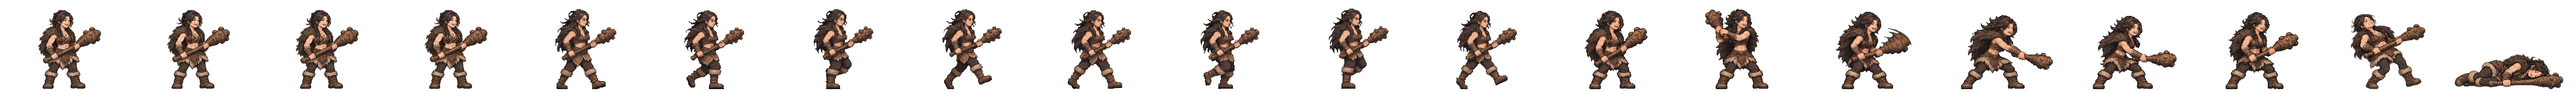
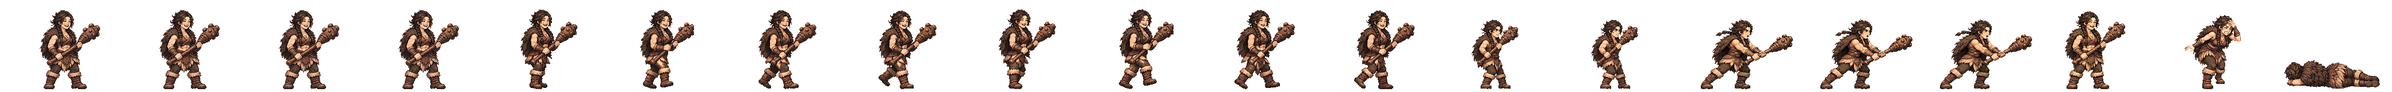
웅천 곰 전투 띠를 새 방식으로: 서기·걷기·가시 몽둥이 내려찍기 여덟 칸·쓰러짐·맞음 (Codex 그림 · 입 벌린 칸 얼굴 부분 편집 한 번) · 인수인계에 도끼 묶음(밤) 절
Claude-Session: https://claude.ai/code/session_01TRiuN7s6aDfSnaHxrkctmU

Changed region(s): [[0.0, 0.0938, 1.0, 0.9688]]

diff --git a/src/realm/data/spritePx.ts b/src/realm/data/spritePx.ts
@@ -1,3 +1,3 @@
 /** public/realm/anim-px/manifest.json 의 사본 — tools/sprite-normalize.mjs 가 만든다 (손으로 고치지 말 것). 칸 [가로, 세로] · feet = 발 줄(칸 위에서 y) · bodyPx = 서 있는 몸 키 */
 import { expandManifest } from './sprite-manifest.ts'
-export const SPRITE_PX: Readonly<Record<string, { readonly cell: readonly [number, number]; readonly feet: number; readonly bodyPx: number; readonly kind: 'general' | 'soldier' | 'folk' | 'crowd'; readonly cells: number }>> = expandManifest<{ readonly cell: readonly [number, number]; readonly feet: number; readonly bodyPx: number; readonly kind: 'general' | 'soldier' | 'folk' | 'crowd'; readonly cells: number }>([{"cell":[166,128],"feet":126,"bodyPx":124,"kind":"soldier","cells":20},{"cell":[116,128],"feet":126,"bodyPx":117,"kind":"soldier","cells":20},{"cell":[127,128],"feet":126,"bodyPx":116,"kind":"soldier","cells":20},{"cell":[269,128],"feet":126,"bodyPx":126,"kind":"soldier","cells":20},{"cell":[503,128],"feet":126,"bodyPx":127,"kind":"soldier","cells":20},{"cell":[614,128],"feet":126,"bodyPx":126,"kind":"soldier","cells":20},{"cell":[200,160],"feet":156,"bodyPx":138,"kind":"general","cells":20},{"cell":[208,160],"feet":155,"bodyPx":138,"kind":"general","cells":20},{"cell":[208,160],"feet":154,"bodyPx":138,"kind":"general","cells":20},{"cell":[304,160],"feet":155,"bodyPx":135,"kind":"general","cells":20},{"cell":[184,160],"feet":156,"bodyPx":138,"kind":"general","cells":20},{"cell":[208,160],"feet":154,"bodyPx":136,"kind":"general","cells":20},{"cell":[232,160],"feet":156,"bodyPx":138,"kind":"general","cells":20},{"cell":[208,160],"feet":156,"bodyPx":138,"kind":"general","cells":20},{"cell":[168,160],"feet":156,"bodyPx":124,"kind":"general","cells":20},{"cell":[216,160],"feet":156,"bodyPx":130,"kind":"general","cells":20},{"cell":[200,160],"feet":156,"bodyPx":116,"kind":"general","cells":20},{"cell":[192,160],"feet":156,"bodyPx":138,"kind":"general","cells":20},{"cell":[208,160],"feet":154,"bodyPx":135,"kind":"general","cells":20},{"cell":[280,160],"feet":156,"bodyPx":138,"kind":"general","cells":20},{"cell":[232,160],"feet":156,"bodyPx":134,"kind":"general","cells":20},{"cell":[144,160],"feet":156,"bodyPx":70,"kind":"general","cells":20},{"cell":[208,160],"feet":156,"bodyPx":70,"kind":"general","cells":20},{"cell":[192,160],"feet":156,"bodyPx":70,"kind":"general","cells":20},{"cell":[240,160],"feet":155,"bodyPx":138,"kind":"general","cells":20},{"cell":[192,160],"feet":156,"bodyPx":128,"kind":"general","cells":20},{"cell":[224,160],"feet":155,"bodyPx":138,"kind":"general","cells":20},{"cell":[208,160],"feet":154,"bodyPx":137,"kind":"general","cells":20},{"cell":[216,160],"feet":156,"bodyPx":138,"kind":"general","cells":20},{"cell":[208,160],"feet":156,"bodyPx":134,"kind":"general","cells":20},{"cell":[208,160],"feet":154,"bodyPx":130,"kind":"general","cells":20},{"cell":[248,160],"feet":156,"bodyPx":138,"kind":"general","cells":20},{"cell":[248,160],"feet":155,"bodyPx":138,"kind":"general","cells":20},{"cell":[192,160],"feet":155,"bodyPx":138,"kind":"general","cells":20},{"cell":[192,160],"feet":156,"bodyPx":124,"kind":"general","cells":20},{"cell":[208,160],"feet":154,"bodyPx":131,"kind":"general","cells":20},{"cell":[256,160],"feet":156,"bodyPx":138,"kind":"general","cells":20},{"cell":[240,160],"feet":156,"bodyPx":138,"kind":"general","cells":20},{"cell":[232,160],"feet":156,"bodyPx":73,"kind":"general","cells":20},{"cell":[224,160],"feet":156,"bodyPx":138,"kind":"general","cells":20},{"cell":[224,160],"feet":156,"bodyPx":128,"kind":"general","cells":20},{"cell":[176,160],"feet":156,"bodyPx":129,"kind":"general","cells":20},{"cell":[208,160],"feet":154,"bodyPx":139,"kind":"general","cells":20},{"cell":[232,160],"feet":155,"bodyPx":138,"kind":"general","cells":20},{"cell":[208,160],"feet":156,"bodyPx":132,"kind":"general","cells":20},{"cell":[184,160],"feet":156,"bodyPx":122,"kind":"general","cells":20},{"cell":[280,160],"feet":155,"bodyPx":133,"kind":"general","cells":20},{"cell":[176,160],"feet":156,"bodyPx":70,"kind":"general","cells":20},{"cell":[186,128],"feet":126,"bodyPx":127,"kind":"soldier","cells":20},{"cell":[298,128],"feet":126,"bodyPx":126,"kind":"soldier","cells":20},{"cell":[82,128],"feet":126,"bodyPx":114,"kind":"folk","cells":8},{"cell":[134,128],"feet":126,"bodyPx":119,"kind":"soldier","cells":20},{"cell":[380,128],"feet":126,"bodyPx":124,"kind":"soldier","cells":20},{"cell":[114,128],"feet":126,"bodyPx":115,"kind":"soldier","cells":20},{"cell":[122,128],"feet":126,"bodyPx":114,"kind":"soldier","cells":20},{"cell":[254,128],"feet":126,"bodyPx":128,"kind":"soldier","cells":20},{"cell":[438,128],"feet":126,"bodyPx":126,"kind":"soldier","cells":20},{"cell":[88,128],"feet":126,"bodyPx":113,"kind":"folk","cells":8},{"cell":[100,128],"feet":126,"bodyPx":115,"kind":"folk","cells":8},{"cell":[108,128],"feet":126,"bodyPx":115,"kind":"folk","cells":8},{"cell":[63,128],"feet":126,"bodyPx":113,"kind":"folk","cells":8},{"cell":[69,96],"feet":96,"bodyPx":96,"kind":"crowd","cells":1},{"cell":[54,96],"feet":96,"bodyPx":96,"kind":"crowd","cells":1},{"cell":[47,96],"feet":96,"bodyPx":96,"kind":"crowd","cells":1},{"cell":[49,96],"feet":96,"bodyPx":96,"kind":"crowd","cells":1},{"cell":[57,96],"feet":96,"bodyPx":96,"kind":"crowd","cells":1},{"cell":[55,96],"feet":96,"bodyPx":96,"kind":"crowd","cells":1},{"cell":[45,96],"feet":96,"bodyPx":96,"kind":"crowd","cells":1},{"cell":[53,96],"feet":96,"bodyPx":96,"kind":"crowd","cells":1},{"cell":[64,96],"feet":96,"bodyPx":96,"kind":"crowd","cells":1},{"cell":[264,160],"feet":156,"bodyPx":138,"kind":"general","cells":20},{"cell":[184,160],"feet":156,"bodyPx":124,"kind":"general","cells":20},{"cell":[208,160],"feet":154,"bodyPx":134,"kind":"general","cells":20},{"cell":[224,160],"feet":156,"bodyPx":133,"kind":"general","cells":20},{"cell":[184,160],"feet":156,"bodyPx":137,"kind":"general","cells":20},{"cell":[176,160],"feet":156,"bodyPx":130,"kind":"general","cells":20},{"cell":[216,160],"feet":156,"bodyPx":134,"kind":"general","cells":20},{"cell":[216,160],"feet":156,"bodyPx":132,"kind":"general","cells":20},{"cell":[288,160],"feet":156,"bodyPx":138,"kind":"general","cells":20},{"cell":[192,160],"feet":156,"bodyPx":118,"kind":"general","cells":20},{"cell":[208,160],"feet":154,"bodyPx":132,"kind":"general","cells":20},{"cell":[208,160],"feet":154,"bodyPx":128,"kind":"general","cells":20},{"cell":[240,160],"feet":156,"bodyPx":128,"kind":"general","cells":20},{"cell":[184,160],"feet":156,"bodyPx":132,"kind":"general","cells":20},{"cell":[208,160],"feet":156,"bodyPx":123,"kind":"general","cells":20},{"cell":[192,160],"feet":156,"bodyPx":135,"kind":"general","cells":20},{"cell":[176,160],"feet":156,"bodyPx":116,"kind":"general","cells":20},{"cell":[272,160],"feet":156,"bodyPx":138,"kind":"general","cells":20},{"cell":[176,160],"feet":156,"bodyPx":138,"kind":"general","cells":20},{"cell":[176,160],"feet":156,"bodyPx":122,"kind":"general","cells":20},{"cell":[232,160],"feet":156,"bodyPx":127,"kind":"general","cells":20},{"cell":[184,160],"feet":156,"bodyPx":134,"kind":"general","cells":20},{"cell":[168,160],"feet":156,"bodyPx":138,"kind":"general","cells":20},{"cell":[176,160],"feet":156,"bodyPx":137,"kind":"general","cells":20},{"cell":[184,160],"feet":156,"bodyPx":133,"kind":"general","cells":20}],[["axe",0],["bandit-chief",1],["bandit-club",2],["boat",3],["bow",4],["crossbow",5],["gen-adogan",6],["gen-alpyeong",7],["gen-ara",8],["gen-areum",8],["gen-aryeong",9],["gen-bakdal",8],["gen-baram",8],["gen-bdanbi",10],["gen-beom",11],["gen-beombal",8],["gen-beomi",8],["gen-bira",12],["gen-biryu",13],["gen-budeul",8],["gen-byeol",8],["gen-daemusin",14],["gen-daeso",15],["gen-dallae2",10],["gen-dalli",8],["gen-damul",16],["gen-danbi",8],["gen-dangung",17],["gen-darae",18],["gen-dokmudeom",8],["gen-duman",19],["gen-eomni",8],["gen-eureum",20],["gen-g-bow",21],["gen-g-spear",22],["gen-g-sword",23],["gen-gaennae",8],["gen-gamsil",24],["gen-gaon",18],["gen-geota",13],["gen-geumbawi",10],["gen-geumha",25],["gen-goeun",8],["gen-gom",26],["gen-gomok",13],["gen-gureum",8],["gen-guryema",17],["gen-gwaeyu",12],["gen-haebi",8],["gen-haedal",6],["gen-haesol",8],["gen-halla",27],["gen-heo",8],["gen-hneoul",10],["gen-hogong",28],["gen-hojin",13],["gen-horselord",29],["gen-hwalmi",30],["gen-hyeokgeose",17],["gen-hyeopbo",6],["gen-irang",8],["gen-jibaekho",31],["gen-jinha",32],["gen-jita",33],["gen-jumong",34],["gen-keundol",7],["gen-maehwa",35],["gen-maenun",17],["gen-malgalgi",36],["gen-mari",37],["gen-maro",31],["gen-maryeo",13],["gen-mdallae",8],["gen-mir",6],["gen-mount",38],["gen-mulbeom",27],["gen-mulsae",27],["gen-musoe",28],["gen-noeul",8],["gen-nuri",8],["gen-ocheongan",39],["gen-odi",8],["gen-odogan",6],["gen-ogan",17],["gen-oi",40],["gen-olddaeso",20],["gen-onjo",41],["gen-pidogan",13],["gen-sagong",42],["gen-sdallae",6],["gen-sincheongan",8],["gen-singwigan",28],["gen-sinneoul",8],["gen-sobeol",43],["gen-soebi",8],["gen-soebo",44],["gen-soenun",42],["gen-sogeumbi",27],["gen-songbi",39],["gen-songyang",45],["gen-sori",8],["gen-soseono",46],["gen-suro",17],["gen-tahae",6],["gen-tneoul",8],["gen-w-bow",21],["gen-w-spear",47],["gen-waechief",13],["gen-wan",28],["gen-yeodogan",13],["gen-yucheongan",8],["gen-yusugan",31],["horse",48],["marine",49],["migrant",50],["militia",51],["pike",52],["pirate-captain",53],["pirate-sword",54],["shield",55],["spear",56],["villager-builder",57],["villager-farmer",58],["villager-porter",59],["villager-woman",60],["crowd-b1",61],["crowd-b2",62],["crowd-b3",63],["crowd-b4",64],["crowd-b5",65],["crowd-b6",66],["crowd-f1",61],["crowd-f2",66],["crowd-f3",67],["crowd-f4",68],["crowd-f5",61],["crowd-f6",69],["gen-dalbit",13],["gen-base-g-07-drunk-warrior",17],["gen-base-g-40-anya-adan",13],["gen-base-w-13-young-archer",8],["gen-base-g-03-sea-trader",37],["gen-base-w-10-pirate-captain",42],["gen-base-w-64-miri-dallae",42],["gen-base-g-41-goja-bau",37],["gen-base-g-42-dokro-garam",70],["gen-base-g-09-farmer-conscript",28],["gen-base-w-02-goguryeo-lady",8],["gen-base-w-17-mahan-pearl-diver",8],["gen-base-g-17-saro-isageum",44],["gen-base-g-18-daegaya-king",71],["gen-base-g-35-dabeol-dalgu",13],["gen-base-g-19-sabeol-veteran",28],["gen-base-w-23-usisan-whale-queen",8],["gen-base-g-36-gammun-gamdol",39],["gen-base-g-20-samul-sea-lord",36],["gen-base-g-37-eumjeup-jeup",10],["gen-base-g-38-chopal-palmae",17],["gen-base-w-75-daegaya-soemoe",8],["gen-base-g-45-dabeol-deulgae",10],["gen-base-g-04-jinhan-giant",13],["gen-base-g-08-veteran",13],["gen-base-w-18-jinhan-salt-widow",8],["gen-base-w-12-court-dancer",72],["gen-base-w-83-gyeonji-beodeul",73],["gen-base-w-05-baekje-queen",18],["gen-base-w-21-baekje-court-dancer",10],["gen-base-g-01-master-smith",74],["gen-base-g-93-jomun-solgae",75],["gen-base-g-57-bihwa-neup",37],["gen-base-w-72-eumjeup-beol",8],["gen-base-w-102-garak-dana",42],["gen-base-g-68-baekje-onnuri",13],["gen-base-w-27-mokji-jinha",6],["gen-base-g-22-ungcheon-gomnae",6],["gen-base-g-23-sangdang-soedal",13],["gen-base-g-24-wansan-onsan",6],["gen-base-g-25-balla-keunmoe",28],["gen-base-g-61-heomcheuk-bawi",28],["gen-base-g-88-wander-soeul",39],["gen-base-w-14-feast-spy",8],["gen-base-g-12-silla-youth",76],["gen-base-w-08-mahan-warrior",8],["gen-base-g-62-beonye-hanul",37],["gen-base-g-63-heomcheuk-beogeum",13],["gen-base-g-84-wander-seoneul",13],["gen-base-w-50-siljik-mulga",28],["gen-base-g-46-uga-nureongso",28],["gen-base-w-80-usan-gangchi",42],["gen-base-g-47-guga-sanyanggae",28],["gen-base-w-76-gampyeong-baetsagong",8],["gen-base-g-05-mahan-chieftain",77],["gen-base-g-58-usan-uhae",13],["gen-base-g-27-maek-maekdol",13],["gen-base-w-53-hwanna-gabi",42],["gen-base-w-29-golpo-janmul",31],["gen-base-g-53-baekje-haeru",6],["gen-base-w-71-yeonna-neoul",8],["gen-base-w-79-yangmaek-solmae",8],["gen-base-w-34-chopal-deulme",8],["gen-base-g-44-maga-malgup",78],["gen-base-w-31-dabeol-dalbit",42],["gen-base-g-51-biryuna-mulgyeol",39],["gen-base-g-48-gwanna-musoe",13],["gen-base-g-32-uga-sodu",12],["gen-base-g-49-goguryeo-sona",79],["gen-base-g-30-gwanna-soemoe",39],["gen-base-g-52-tamna-oreum",10],["gen-base-g-29-yeonna-myeongsol",34],["gen-base-w-56-dongokjeo-sogeum",72],["gen-base-g-54-mokji-mahan",12],["gen-base-g-33-jeoga-metdol",17],["gen-base-w-36-baekje-maena",8],["gen-base-w-38-sangdang-bulmae",42],["gen-base-w-39-gosaburi-galmae",8],["gen-base-w-40-mujin-munui",80],["gen-base-w-41-hwanna-beodeul",81],["gen-base-w-43-uga-nuri",36],["gen-base-w-45-tamna-oreumbi",10],["gen-base-g-60-golbeol-golgae",10],["gen-base-g-61-apdok-ap",28],["gen-base-g-62-gammun-gamnamu",6],["gen-base-g-63-chopal-yeoul",31],["gen-base-g-64-michuhol-sogeumkkun",37],["gen-base-g-65-sangdang-soemangchi",39],["gen-base-g-66-geonma-malbalgup",82],["gen-base-g-67-gosaburi-buri",83],["gen-base-g-68-mujin-bitgoeul",10],["gen-base-g-69-goryong-yong",39],["gen-base-g-70-siljik-pado",37],["gen-base-w-81-byeokjin-byeolbit",8],["gen-base-w-46-geonma-maru",8],["gen-base-w-48-mujin-mudeung",8],["gen-base-g-26-gampyeong-gaetbeol",12],["gen-base-g-60-eupcha-hangyeol",84],["gen-base-g-15-shaman-man",28],["gen-base-g-85-wander-ure",31],["gen-base-g-43-hwanna-amnok",13],["gen-base-g-50-bullae-gwaha",85],["gen-base-g-55-saro-bakdal",13],["gen-base-g-56-haseulla-gwahama",6],["gen-base-w-06-buyeo-huntress",27],["gen-base-w-22-dongye-tiger-huntress",8],["gen-base-w-25-bihwa-priestess",8],["gen-base-w-24-apdok-queen",8],["gen-base-w-61-iseo-sinae",8],["gen-base-w-26-iseo-tomboy-general",8],["gen-base-g-59-yangmaek-maekson",86],["gen-aw1-haebi",39],["gen-aw1-soseono",87],["gen-aw1-gamsil",10],["gen-aw1-mir",88],["gen-aw1-dangung",6],["gen-aw1-ara",39],["gen-aw1-jumong",89],["gen-aw1-onjo",90],["gen-aw1-base-w-83-gyeonji-beodeul",17],["gen-aw1-heo",70],["gen-aw1-base-g-38-chopal-palmae",6],["gen-aw1-base-w-25-bihwa-priestess",91],["gen-aw1-sori",92],["gen-aw1-gomok",6],["gen-aw1-irang",17],["gen-aw1-budeul",92],["gen-aw1-gom",37],["gen-aw1-sdallae",6],["gen-aw1-base-w-13-young-archer",6],["gen-aw1-base-w-36-baekje-maena",93],["gen-aw1-base-g-09-farmer-conscript",70],["gen-aw1-base-w-02-goguryeo-lady",94],["gen-aw1-haedal",10],["gen-aw1-hogong",6],["gen-aw1-maehwa",88],["gen-aw1-base-w-06-buyeo-huntress",12],["gen-aw1-base-w-08-mahan-warrior",39],["gen-aw1-base-w-29-golpo-janmul",39],["gen-aw1-base-w-31-dabeol-dalbit",17],["gen-aw1-base-w-38-sangdang-bulmae",92],["gen-aw1-bira",28],["gen-aw1-base-w-53-hwanna-gabi",92],["gen-aw1-base-w-56-dongokjeo-sogeum",88],["gen-aw1-base-w-72-eumjeup-beol",17],["gen-aw1-bdanbi",92],["gen-aw1-beom",10],["gen-aw1-beombal",10],["gen-aw1-byeol",17],["gen-aw1-dalli",88],["gen-aw1-malgalgi",31],["gen-aw1-sincheongan",28]])
+export const SPRITE_PX: Readonly<Record<string, { readonly cell: readonly [number, number]; readonly feet: number; readonly bodyPx: number; readonly kind: 'general' | 'soldier' | 'folk' | 'crowd'; readonly cells: number }>> = expandManifest<{ readonly cell: readonly [number, number]; readonly feet: number; readonly bodyPx: number; readonly kind: 'general' | 'soldier' | 'folk' | 'crowd'; readonly cells: number }>([{"cell":[166,128],"feet":126,"bodyPx":124,"kind":"soldier","cells":20},{"cell":[116,128],"feet":126,"bodyPx":117,"kind":"soldier","cells":20},{"cell":[127,128],"feet":126,"bodyPx":116,"kind":"soldier","cells":20},{"cell":[269,128],"feet":126,"bodyPx":126,"kind":"soldier","cells":20},{"cell":[503,128],"feet":126,"bodyPx":127,"kind":"soldier","cells":20},{"cell":[614,128],"feet":126,"bodyPx":126,"kind":"soldier","cells":20},{"cell":[200,160],"feet":156,"bodyPx":138,"kind":"general","cells":20},{"cell":[208,160],"feet":155,"bodyPx":138,"kind":"general","cells":20},{"cell":[208,160],"feet":154,"bodyPx":138,"kind":"general","cells":20},{"cell":[304,160],"feet":155,"bodyPx":135,"kind":"general","cells":20},{"cell":[184,160],"feet":156,"bodyPx":138,"kind":"general","cells":20},{"cell":[208,160],"feet":154,"bodyPx":136,"kind":"general","cells":20},{"cell":[232,160],"feet":156,"bodyPx":138,"kind":"general","cells":20},{"cell":[208,160],"feet":156,"bodyPx":138,"kind":"general","cells":20},{"cell":[168,160],"feet":156,"bodyPx":124,"kind":"general","cells":20},{"cell":[216,160],"feet":156,"bodyPx":130,"kind":"general","cells":20},{"cell":[200,160],"feet":156,"bodyPx":116,"kind":"general","cells":20},{"cell":[192,160],"feet":156,"bodyPx":138,"kind":"general","cells":20},{"cell":[208,160],"feet":154,"bodyPx":135,"kind":"general","cells":20},{"cell":[280,160],"feet":156,"bodyPx":138,"kind":"general","cells":20},{"cell":[232,160],"feet":156,"bodyPx":134,"kind":"general","cells":20},{"cell":[144,160],"feet":156,"bodyPx":70,"kind":"general","cells":20},{"cell":[208,160],"feet":156,"bodyPx":70,"kind":"general","cells":20},{"cell":[192,160],"feet":156,"bodyPx":70,"kind":"general","cells":20},{"cell":[240,160],"feet":155,"bodyPx":138,"kind":"general","cells":20},{"cell":[192,160],"feet":156,"bodyPx":128,"kind":"general","cells":20},{"cell":[208,160],"feet":154,"bodyPx":137,"kind":"general","cells":20},{"cell":[216,160],"feet":156,"bodyPx":138,"kind":"general","cells":20},{"cell":[208,160],"feet":156,"bodyPx":134,"kind":"general","cells":20},{"cell":[208,160],"feet":154,"bodyPx":130,"kind":"general","cells":20},{"cell":[248,160],"feet":156,"bodyPx":138,"kind":"general","cells":20},{"cell":[248,160],"feet":155,"bodyPx":138,"kind":"general","cells":20},{"cell":[192,160],"feet":155,"bodyPx":138,"kind":"general","cells":20},{"cell":[192,160],"feet":156,"bodyPx":124,"kind":"general","cells":20},{"cell":[208,160],"feet":154,"bodyPx":131,"kind":"general","cells":20},{"cell":[256,160],"feet":156,"bodyPx":138,"kind":"general","cells":20},{"cell":[240,160],"feet":156,"bodyPx":138,"kind":"general","cells":20},{"cell":[232,160],"feet":156,"bodyPx":73,"kind":"general","cells":20},{"cell":[224,160],"feet":156,"bodyPx":138,"kind":"general","cells":20},{"cell":[224,160],"feet":156,"bodyPx":128,"kind":"general","cells":20},{"cell":[176,160],"feet":156,"bodyPx":129,"kind":"general","cells":20},{"cell":[208,160],"feet":154,"bodyPx":139,"kind":"general","cells":20},{"cell":[232,160],"feet":155,"bodyPx":138,"kind":"general","cells":20},{"cell":[208,160],"feet":156,"bodyPx":132,"kind":"general","cells":20},{"cell":[184,160],"feet":156,"bodyPx":122,"kind":"general","cells":20},{"cell":[280,160],"feet":155,"bodyPx":133,"kind":"general","cells":20},{"cell":[176,160],"feet":156,"bodyPx":70,"kind":"general","cells":20},{"cell":[186,128],"feet":126,"bodyPx":127,"kind":"soldier","cells":20},{"cell":[298,128],"feet":126,"bodyPx":126,"kind":"soldier","cells":20},{"cell":[82,128],"feet":126,"bodyPx":114,"kind":"folk","cells":8},{"cell":[134,128],"feet":126,"bodyPx":119,"kind":"soldier","cells":20},{"cell":[380,128],"feet":126,"bodyPx":124,"kind":"soldier","cells":20},{"cell":[114,128],"feet":126,"bodyPx":115,"kind":"soldier","cells":20},{"cell":[122,128],"feet":126,"bodyPx":114,"kind":"soldier","cells":20},{"cell":[254,128],"feet":126,"bodyPx":128,"kind":"soldier","cells":20},{"cell":[438,128],"feet":126,"bodyPx":126,"kind":"soldier","cells":20},{"cell":[88,128],"feet":126,"bodyPx":113,"kind":"folk","cells":8},{"cell":[100,128],"feet":126,"bodyPx":115,"kind":"folk","cells":8},{"cell":[108,128],"feet":126,"bodyPx":115,"kind":"folk","cells":8},{"cell":[63,128],"feet":126,"bodyPx":113,"kind":"folk","cells":8},{"cell":[69,96],"feet":96,"bodyPx":96,"kind":"crowd","cells":1},{"cell":[54,96],"feet":96,"bodyPx":96,"kind":"crowd","cells":1},{"cell":[47,96],"feet":96,"bodyPx":96,"kind":"crowd","cells":1},{"cell":[49,96],"feet":96,"bodyPx":96,"kind":"crowd","cells":1},{"cell":[57,96],"feet":96,"bodyPx":96,"kind":"crowd","cells":1},{"cell":[55,96],"feet":96,"bodyPx":96,"kind":"crowd","cells":1},{"cell":[45,96],"feet":96,"bodyPx":96,"kind":"crowd","cells":1},{"cell":[53,96],"feet":96,"bodyPx":96,"kind":"crowd","cells":1},{"cell":[64,96],"feet":96,"bodyPx":96,"kind":"crowd","cells":1},{"cell":[264,160],"feet":156,"bodyPx":138,"kind":"general","cells":20},{"cell":[184,160],"feet":156,"bodyPx":124,"kind":"general","cells":20},{"cell":[208,160],"feet":154,"bodyPx":134,"kind":"general","cells":20},{"cell":[224,160],"feet":156,"bodyPx":133,"kind":"general","cells":20},{"cell":[184,160],"feet":156,"bodyPx":137,"kind":"general","cells":20},{"cell":[176,160],"feet":156,"bodyPx":130,"kind":"general","cells":20},{"cell":[216,160],"feet":156,"bodyPx":134,"kind":"general","cells":20},{"cell":[216,160],"feet":156,"bodyPx":132,"kind":"general","cells":20},{"cell":[288,160],"feet":156,"bodyPx":138,"kind":"general","cells":20},{"cell":[192,160],"feet":156,"bodyPx":118,"kind":"general","cells":20},{"cell":[208,160],"feet":154,"bodyPx":132,"kind":"general","cells":20},{"cell":[208,160],"feet":154,"bodyPx":128,"kind":"general","cells":20},{"cell":[240,160],"feet":156,"bodyPx":128,"kind":"general","cells":20},{"cell":[184,160],"feet":156,"bodyPx":132,"kind":"general","cells":20},{"cell":[208,160],"feet":156,"bodyPx":123,"kind":"general","cells":20},{"cell":[192,160],"feet":156,"bodyPx":135,"kind":"general","cells":20},{"cell":[176,160],"feet":156,"bodyPx":116,"kind":"general","cells":20},{"cell":[272,160],"feet":156,"bodyPx":138,"kind":"general","cells":20},{"cell":[176,160],"feet":156,"bodyPx":138,"kind":"general","cells":20},{"cell":[176,160],"feet":156,"bodyPx":122,"kind":"general","cells":20},{"cell":[232,160],"feet":156,"bodyPx":127,"kind":"general","cells":20},{"cell":[184,160],"feet":156,"bodyPx":134,"kind":"general","cells":20},{"cell":[168,160],"feet":156,"bodyPx":138,"kind":"general","cells":20},{"cell":[176,160],"feet":156,"bodyPx":137,"kind":"general","cells":20},{"cell":[184,160],"feet":156,"bodyPx":133,"kind":"general","cells":20}],[["axe",0],["bandit-chief",1],["bandit-club",2],["boat",3],["bow",4],["crossbow",5],["gen-adogan",6],["gen-alpyeong",7],["gen-ara",8],["gen-areum",8],["gen-aryeong",9],["gen-bakdal",8],["gen-baram",8],["gen-bdanbi",10],["gen-beom",11],["gen-beombal",8],["gen-beomi",8],["gen-bira",12],["gen-biryu",13],["gen-budeul",8],["gen-byeol",8],["gen-daemusin",14],["gen-daeso",15],["gen-dallae2",10],["gen-dalli",8],["gen-damul",16],["gen-danbi",8],["gen-dangung",17],["gen-darae",18],["gen-dokmudeom",8],["gen-duman",19],["gen-eomni",8],["gen-eureum",20],["gen-g-bow",21],["gen-g-spear",22],["gen-g-sword",23],["gen-gaennae",8],["gen-gamsil",24],["gen-gaon",18],["gen-geota",13],["gen-geumbawi",10],["gen-geumha",25],["gen-goeun",8],["gen-gom",8],["gen-gomok",13],["gen-gureum",8],["gen-guryema",17],["gen-gwaeyu",12],["gen-haebi",8],["gen-haedal",6],["gen-haesol",8],["gen-halla",26],["gen-heo",8],["gen-hneoul",10],["gen-hogong",27],["gen-hojin",13],["gen-horselord",28],["gen-hwalmi",29],["gen-hyeokgeose",17],["gen-hyeopbo",6],["gen-irang",8],["gen-jibaekho",30],["gen-jinha",31],["gen-jita",32],["gen-jumong",33],["gen-keundol",7],["gen-maehwa",34],["gen-maenun",17],["gen-malgalgi",35],["gen-mari",36],["gen-maro",30],["gen-maryeo",13],["gen-mdallae",8],["gen-mir",6],["gen-mount",37],["gen-mulbeom",26],["gen-mulsae",26],["gen-musoe",27],["gen-noeul",8],["gen-nuri",8],["gen-ocheongan",38],["gen-odi",8],["gen-odogan",6],["gen-ogan",17],["gen-oi",39],["gen-olddaeso",20],["gen-onjo",40],["gen-pidogan",13],["gen-sagong",41],["gen-sdallae",6],["gen-sincheongan",8],["gen-singwigan",27],["gen-sinneoul",8],["gen-sobeol",42],["gen-soebi",8],["gen-soebo",43],["gen-soenun",41],["gen-sogeumbi",26],["gen-songbi",38],["gen-songyang",44],["gen-sori",8],["gen-soseono",45],["gen-suro",17],["gen-tahae",6],["gen-tneoul",8],["gen-w-bow",21],["gen-w-spear",46],["gen-waechief",13],["gen-wan",27],["gen-yeodogan",13],["gen-yucheongan",8],["gen-yusugan",30],["horse",47],["marine",48],["migrant",49],["militia",50],["pike",51],["pirate-captain",52],["pirate-sword",53],["shield",54],["spear",55],["villager-builder",56],["villager-farmer",57],["villager-porter",58],["villager-woman",59],["crowd-b1",60],["crowd-b2",61],["crowd-b3",62],["crowd-b4",63],["crowd-b5",64],["crowd-b6",65],["crowd-f1",60],["crowd-f2",65],["crowd-f3",66],["crowd-f4",67],["crowd-f5",60],["crowd-f6",68],["gen-dalbit",13],["gen-base-g-07-drunk-warrior",17],["gen-base-g-40-anya-adan",13],["gen-base-w-13-young-archer",8],["gen-base-g-03-sea-trader",36],["gen-base-w-10-pirate-captain",41],["gen-base-w-64-miri-dallae",41],["gen-base-g-41-goja-bau",36],["gen-base-g-42-dokro-garam",69],["gen-base-g-09-farmer-conscript",27],["gen-base-w-02-goguryeo-lady",8],["gen-base-w-17-mahan-pearl-diver",8],["gen-base-g-17-saro-isageum",43],["gen-base-g-18-daegaya-king",70],["gen-base-g-35-dabeol-dalgu",13],["gen-base-g-19-sabeol-veteran",27],["gen-base-w-23-usisan-whale-queen",8],["gen-base-g-36-gammun-gamdol",38],["gen-base-g-20-samul-sea-lord",35],["gen-base-g-37-eumjeup-jeup",10],["gen-base-g-38-chopal-palmae",17],["gen-base-w-75-daegaya-soemoe",8],["gen-base-g-45-dabeol-deulgae",10],["gen-base-g-04-jinhan-giant",13],["gen-base-g-08-veteran",13],["gen-base-w-18-jinhan-salt-widow",8],["gen-base-w-12-court-dancer",71],["gen-base-w-83-gyeonji-beodeul",72],["gen-base-w-05-baekje-queen",18],["gen-base-w-21-baekje-court-dancer",10],["gen-base-g-01-master-smith",73],["gen-base-g-93-jomun-solgae",74],["gen-base-g-57-bihwa-neup",36],["gen-base-w-72-eumjeup-beol",8],["gen-base-w-102-garak-dana",41],["gen-base-g-68-baekje-onnuri",13],["gen-base-w-27-mokji-jinha",6],["gen-base-g-22-ungcheon-gomnae",6],["gen-base-g-23-sangdang-soedal",13],["gen-base-g-24-wansan-onsan",6],["gen-base-g-25-balla-keunmoe",27],["gen-base-g-61-heomcheuk-bawi",27],["gen-base-g-88-wander-soeul",38],["gen-base-w-14-feast-spy",8],["gen-base-g-12-silla-youth",75],["gen-base-w-08-mahan-warrior",8],["gen-base-g-62-beonye-hanul",36],["gen-base-g-63-heomcheuk-beogeum",13],["gen-base-g-84-wander-seoneul",13],["gen-base-w-50-siljik-mulga",27],["gen-base-g-46-uga-nureongso",27],["gen-base-w-80-usan-gangchi",41],["gen-base-g-47-guga-sanyanggae",27],["gen-base-w-76-gampyeong-baetsagong",8],["gen-base-g-05-mahan-chieftain",76],["gen-base-g-58-usan-uhae",13],["gen-base-g-27-maek-maekdol",13],["gen-base-w-53-hwanna-gabi",41],["gen-base-w-29-golpo-janmul",30],["gen-base-g-53-baekje-haeru",6],["gen-base-w-71-yeonna-neoul",8],["gen-base-w-79-yangmaek-solmae",8],["gen-base-w-34-chopal-deulme",8],["gen-base-g-44-maga-malgup",77],["gen-base-w-31-dabeol-dalbit",41],["gen-base-g-51-biryuna-mulgyeol",38],["gen-base-g-48-gwanna-musoe",13],["gen-base-g-32-uga-sodu",12],["gen-base-g-49-goguryeo-sona",78],["gen-base-g-30-gwanna-soemoe",38],["gen-base-g-52-tamna-oreum",10],["gen-base-g-29-yeonna-myeongsol",33],["gen-base-w-56-dongokjeo-sogeum",71],["gen-base-g-54-mokji-mahan",12],["gen-base-g-33-jeoga-metdol",17],["gen-base-w-36-baekje-maena",8],["gen-base-w-38-sangdang-bulmae",41],["gen-base-w-39-gosaburi-galmae",8],["gen-base-w-40-mujin-munui",79],["gen-base-w-41-hwanna-beodeul",80],["gen-base-w-43-uga-nuri",35],["gen-base-w-45-tamna-oreumbi",10],["gen-base-g-60-golbeol-golgae",10],["gen-base-g-61-apdok-ap",27],["gen-base-g-62-gammun-gamnamu",6],["gen-base-g-63-chopal-yeoul",30],["gen-base-g-64-michuhol-sogeumkkun",36],["gen-base-g-65-sangdang-soemangchi",38],["gen-base-g-66-geonma-malbalgup",81],["gen-base-g-67-gosaburi-buri",82],["gen-base-g-68-mujin-bitgoeul",10],["gen-base-g-69-goryong-yong",38],["gen-base-g-70-siljik-pado",36],["gen-base-w-81-byeokjin-byeolbit",8],["gen-base-w-46-geonma-maru",8],["gen-base-w-48-mujin-mudeung",8],["gen-base-g-26-gampyeong-gaetbeol",12],["gen-base-g-60-eupcha-hangyeol",83],["gen-base-g-15-shaman-man",27],["gen-base-g-85-wander-ure",30],["gen-base-g-43-hwanna-amnok",13],["gen-base-g-50-bullae-gwaha",84],["gen-base-g-55-saro-bakdal",13],["gen-base-g-56-haseulla-gwahama",6],["gen-base-w-06-buyeo-huntress",26],["gen-base-w-22-dongye-tiger-huntress",8],["gen-base-w-25-bihwa-priestess",8],["gen-base-w-24-apdok-queen",8],["gen-base-w-61-iseo-sinae",8],["gen-base-w-26-iseo-tomboy-general",8],["gen-base-g-59-yangmaek-maekson",85],["gen-aw1-haebi",38],["gen-aw1-soseono",86],["gen-aw1-gamsil",10],["gen-aw1-mir",87],["gen-aw1-dangung",6],["gen-aw1-ara",38],["gen-aw1-jumong",88],["gen-aw1-onjo",89],["gen-aw1-base-w-83-gyeonji-beodeul",17],["gen-aw1-heo",69],["gen-aw1-base-g-38-chopal-palmae",6],["gen-aw1-base-w-25-bihwa-priestess",90],["gen-aw1-sori",91],["gen-aw1-gomok",6],["gen-aw1-irang",17],["gen-aw1-budeul",91],["gen-aw1-gom",36],["gen-aw1-sdallae",6],["gen-aw1-base-w-13-young-archer",6],["gen-aw1-base-w-36-baekje-maena",92],["gen-aw1-base-g-09-farmer-conscript",69],["gen-aw1-base-w-02-goguryeo-lady",93],["gen-aw1-haedal",10],["gen-aw1-hogong",6],["gen-aw1-maehwa",87],["gen-aw1-base-w-06-buyeo-huntress",12],["gen-aw1-base-w-08-mahan-warrior",38],["gen-aw1-base-w-29-golpo-janmul",38],["gen-aw1-base-w-31-dabeol-dalbit",17],["gen-aw1-base-w-38-sangdang-bulmae",91],["gen-aw1-bira",27],["gen-aw1-base-w-53-hwanna-gabi",91],["gen-aw1-base-w-56-dongokjeo-sogeum",87],["gen-aw1-base-w-72-eumjeup-beol",17],["gen-aw1-bdanbi",91],["gen-aw1-beom",10],["gen-aw1-beombal",10],["gen-aw1-byeol",17],["gen-aw1-dalli",87],["gen-aw1-malgalgi",30],["gen-aw1-sincheongan",27]])

diff --git a/src/duel/view.ts b/src/duel/view.ts
@@ -100,7 +100,7 @@ const crowdFront = [1, 2, 3, 4, 5, 6].map((i) => img(`realm/duel/crowd/b${i}.png
 const crowdReady = (set: HTMLImageElement[]): boolean => set.every((im) => im.complete && im.naturalWidth > 0)
 const pxMode = cfg.px !== false && params.get('px') !== '0'
 /** 겨루기 전용 옛 띠(duel/sprites) 대신 열전과 같은 도트 띠(anim-px)를 쓰는 장수 — 두 판에서 같은 모습 · 서기 계획·쓰러지는 칸도 같다 (11-23 범 · 매화 · 달빛 · 11-24 해비 · 아룸) */
-const PX_DUEL: ReadonlySet<string> = new Set(['beom', 'maehwa', 'base-w-31-dabeol-dalbit', 'haebi', 'areum', 'base-w-13-young-archer', 'base-w-10-pirate-captain', 'base-w-17-mahan-pearl-diver', 'base-w-06-buyeo-huntress', 'base-w-64-miri-dallae', 'ara', 'base-w-22-dongye-tiger-huntress', 'noeul', 'sagong', 'sinneoul', 'heo', 'base-w-08-mahan-warrior', 'base-w-23-usisan-whale-queen', 'base-w-26-iseo-tomboy-general', 'base-w-72-eumjeup-beol', 'tneoul', 'odi', 'base-w-76-gampyeong-baetsagong', 'base-w-34-chopal-deulme', 'base-w-102-garak-dana', 'base-w-36-baekje-maena', 'base-w-56-dongokjeo-sogeum', 'budeul', 'base-w-53-hwanna-gabi', 'base-w-18-jinhan-salt-widow', 'beombal', 'irang', 'sogeumbi', 'baram', 'byeol', 'base-w-71-yeonna-neoul', 'base-w-39-gosaburi-galmae', 'base-w-41-hwanna-beodeul', 'base-w-79-yangmaek-solmae', 'base-w-46-geonma-maru', 'base-w-48-mujin-mudeung', 'base-w-80-usan-gangchi', 'base-w-81-byeokjin-byeolbit', 'beomi', 'danbi', 'dalli', 'gureum', 'haesol', 'soenun', 'eomni', 'mulbeom', 'mulsae', 'bakdal', 'darae', 'sori', 'base-w-12-court-dancer', 'hwalmi', 'gaennae', 'dokmudeom', 'base-w-14-feast-spy', 'base-w-25-bihwa-priestess', 'sincheongan', 'base-w-40-mujin-munui', 'halla', 'yucheongan', 'base-w-02-goguryeo-lady', 'gaon', 'base-w-24-apdok-queen', 'base-w-61-iseo-sinae', 'goeun', 'base-w-05-baekje-queen', 'mdallae', 'nuri', 'base-w-75-daegaya-soemoe', 'soebi', 'base-w-38-sangdang-bulmae'])
+const PX_DUEL: ReadonlySet<string> = new Set(['beom', 'maehwa', 'base-w-31-dabeol-dalbit', 'haebi', 'areum', 'base-w-13-young-archer', 'base-w-10-pirate-captain', 'base-w-17-mahan-pearl-diver', 'base-w-06-buyeo-huntress', 'base-w-64-miri-dallae', 'ara', 'base-w-22-dongye-tiger-huntress', 'noeul', 'sagong', 'sinneoul', 'heo', 'base-w-08-mahan-warrior', 'base-w-23-usisan-whale-queen', 'base-w-26-iseo-tomboy-general', 'base-w-72-eumjeup-beol', 'tneoul', 'odi', 'base-w-76-gampyeong-baetsagong', 'base-w-34-chopal-deulme', 'base-w-102-garak-dana', 'base-w-36-baekje-maena', 'base-w-56-dongokjeo-sogeum', 'budeul', 'base-w-53-hwanna-gabi', 'base-w-18-jinhan-salt-widow', 'beombal', 'irang', 'sogeumbi', 'baram', 'byeol', 'base-w-71-yeonna-neoul', 'base-w-39-gosaburi-galmae', 'base-w-41-hwanna-beodeul', 'base-w-79-yangmaek-solmae', 'base-w-46-geonma-maru', 'base-w-48-mujin-mudeung', 'base-w-80-usan-gangchi', 'base-w-81-byeokjin-byeolbit', 'beomi', 'danbi', 'dalli', 'gureum', 'haesol', 'soenun', 'eomni', 'mulbeom', 'mulsae', 'bakdal', 'darae', 'sori', 'base-w-12-court-dancer', 'hwalmi', 'gaennae', 'dokmudeom', 'base-w-14-feast-spy', 'base-w-25-bihwa-priestess', 'sincheongan', 'base-w-40-mujin-munui', 'halla', 'yucheongan', 'base-w-02-goguryeo-lady', 'gaon', 'base-w-24-apdok-queen', 'base-w-61-iseo-sinae', 'goeun', 'base-w-05-baekje-queen', 'mdallae', 'nuri', 'base-w-75-daegaya-soemoe', 'soebi', 'base-w-38-sangdang-bulmae', 'gom'])
 /** 띠 그림 — 기본은 anim-px(도트 규격) 먼저, 없으면 옛 띠로 (img 의 onerror 가 갈아 끼운다) */
 const strip = (s: string): HTMLImageElement => pxMode
   ? DUEL_ATLASES[s] !== undefined && !PX_DUEL.has(s) ? img(`realm/duel/sprites/gen-${s}.png`, `realm/anim-px/gen-${s}.png`)

diff --git a/src/tune/params.ts b/src/tune/params.ts
@@ -1536,6 +1536,7 @@ export const HAEBI_IDLE = {
     'base-w-75-daegaya-soemoe': { cells: 38, base: [0, 1], hold: 2.4, fall: [18, 20, 21, 19], quirk: [22, 23, 24, 25], quirkTimes: [.3, .32, .4, .28], attack: { cells: [26, 27, 28, 29, 30, 31, 32, 33], times: [.09, .08, .11, .05, .15, .07, .08, .12], hit: 4 }, hurt: [34, 35], rise: [36, 37], xGeom: { h: 224, root: 92, foot: 216 } },
     soebi: { cells: 38, base: [0, 1], hold: 2.4, fall: [18, 20, 21, 19], quirk: [22, 23, 24, 25], quirkTimes: [.3, .32, .4, .28], attack: { cells: [26, 27, 28, 29, 30, 31, 32, 33], times: [.09, .08, .11, .05, .15, .07, .08, .12], hit: 4 }, hurt: [34, 35], rise: [36, 37], xGeom: { h: 224, root: 92, foot: 216 } },
     'base-w-38-sangdang-bulmae': { cells: 38, base: [0, 1], hold: 2.4, fall: [18, 20, 21, 19], quirk: [22, 23, 24, 25], quirkTimes: [.3, .32, .4, .28], attack: { cells: [26, 27, 28, 29, 30, 31, 32, 33], times: [.09, .08, .11, .05, .15, .07, .08, .12], hit: 4 }, hurt: [34, 35], rise: [36, 37], xGeom: { h: 224, root: 92, foot: 216 } },
+    gom: { cells: 38, base: [0, 1], hold: 2.4, fall: [18, 20, 21, 19], quirk: [22, 23, 24, 25], quirkTimes: [.3, .32, .4, .28], attack: { cells: [26, 27, 28, 29, 30, 31, 32, 33], times: [.09, .08, .11, .05, .15, .07, .08, .12], hit: 4 }, hurt: [34, 35], rise: [36, 37], xGeom: { h: 224, root: 92, foot: 216 } },
   },
 } as const
 export const HAEBI_ANIM = {

diff --git a/tools/sprite-kit/anim-harness.py b/tools/sprite-kit/anim-harness.py
@@ -117,6 +117,7 @@ HEROES = {
     'soemoe': dict(hit=True, strip='gen-base-w-75-daegaya-soemoe', atk='chop', atk8=True, act=True),   # 대가야 쇠모(쇠망치 · 가슴 M · 우람) · 11-25 도끼·망치 묶음
     'soebi': dict(hit=True, strip='gen-soebi', atk='chop', atk8=True, act=True, legacy=(('a', 1), ('b', 3), ('b', 3), ('b', 4))),   # 쇠비(큰 돌 쇠망치 · 가슴 L) · 11-25 도끼·망치 묶음
     'bulmae': dict(hit=True, strip='gen-base-w-38-sangdang-bulmae', atk='chop', atk8=True, act=True),   # 상당 불매(쇠망치 · 가슴 M) · 11-25 도끼·망치 묶음
+    'gom': dict(hit=True, strip='gen-gom', atk='chop', atk8=True, act=True, legacy=(('a', 1), ('b', 3), ('b', 3), ('b', 4))),   # 웅천 곰(가시 몽둥이 · 가슴 M) · 11-25 도끼·망치 묶음
     'areum': dict(hit=True, strip='gen-areum', atk='slam', atk8=True, act=True, lock='none'),   # 받은 그림 그대로(얼굴을 떠다 붙이지 않는다 — 11-24: 뭉친 얼굴이 여덟 칸에 퍼졌다) · 옛 lock='face': 메가 머리 뒤로 지나간다 — 머리 상자는 메를 자르고(「포스터」), 윗몸을 통째로 묶으면 떠다닌다(11-24 형) → 얼굴 안쪽만 묶는다
 }
 

diff --git a/docs/realm/production/CLAUDE-HANDOFF-20261124.md b/docs/realm/production/CLAUDE-HANDOFF-20261124.md
@@ -309,3 +309,20 @@
 - 검수: 공격 여덟 칸 펼친 판을 장수마다 직접 봄(자루 곧은 한 줄 · 하나 · 준비 두 발이 앞뒤로 벌어짐) · Claude API(`tools/claude-review.mjs t3a~t3e`, 점검 목록 brief2) 23명(물범 다시 판은 안 돌림) 중 걸린 줄: 범 사냥꾼(준비가 쪼그림 의심) · 허황옥(칸2) · 무등(준비 좁음) · 마루(소리지르는 입이 수염 같음) · 구름(a4 창이 짧음) → 앞뒤 발 간격이 다른 장수와 같아(뒤꿈치-앞발 거리 비슷) 그대로 둠. 탐라 너울 · 해솔은 창끝 잘림 → 배율. 독립 검수 에이전트(sonnet)는 코디네이터가 API 로 해도 된다 해서 쓰지 않았다.
 - 못 본 것: 게임 화면에서 실제 재생 · 6배 확대 전수(자루 곧음은 펼친 판 3배 눈대중) · 별빛 b2·b4 눈이 흰색으로 비어 보인다는 Codex 말(확대 안 봄) · 걷기 다리 교대(달래·누리 외) · `src/raid/hero-hd.ts` HERO_HD 에 이 27명 연결은 없음(확인).
 - 알림: 03430851 커밋에 다른 일꾼이 인덱스에 올려 둔 `tools/raid-wall-kit.ts` 삭제가 같이 들어갔다(코디네이터에게 알림). `npm test` 는 한때 숲·여울 시험 2건 실패(남의 작업) · 내 커밋 시점엔 0.
+
+## 도끼 묶음(밤) — 11-25 새벽 (Claude 일꾼 · 형이 자는 동안)
+- **대상 판단**(지금 띠 첫 칸 3배 확대, `tools/out/x/first5.png`): 쇠모·쇠비·불매 = 두 손 쇠망치 · 곰 = 가시 박힌 큰 나무 몽둥이(같은 두 손 큰 무기라 같은 길로) · **골포 잔물 = 주걱 모양 나무 노**라 도끼 길이 아니다(노 찌르기 길 thrust 쪽) → 건너뜀.
+- **길**: Codex 주문 X1~X4 서기 → X5~X28(장수마다 걷기·내려찍기 a·b·개성·쓰러짐·맞음) → 걷기 다리 교대가 안 읽혀 X29~X32 걷기 다시(walk8-k2) → 곰 얼굴 X33·X34. `scene-pack.py <이름> axe <결> e2 [가슴]`(kind axe 추가 · 기존 kind 코드 길은 그대로 · 기존 장수로 바이트 견줌은 안 함) · 맞음 장면은 `hit-jobs.py`(쇠비 가슴 L 추가) · 굽기 `bake_all.sh` 류(tools/out/x/ 임시).
+- **넣은 장수**(커밋 · 띠 둘 + hero-hd 옛 _hd 연결 지움):
+  - 대가야 쇠모 `47cb34c8` · 쇠비 `419d65dc`(좁은 칸 legacy = a1·b3·b3·b4: 큰 돌 망치가 머리 위 칸에서 칸 위가 잘려서) · 상당 불매 `7ec12843` · 웅천 곰(이 절과 같은 커밋 · legacy 같음).
+  - 하네스 판정 넷 모두 합격(곰은 경고 attack·attack8·hit: 공격 끝 칸 윗몸이 서기보다 뒤).
+- **걷기 다리 교대 숫자**(`tools/out/x/legalt.py`: 정강이 구역을 좌우로 갈라 밝기 차를 위 줄/아래 줄 같은 열끼리 견줌 · 부호가 뒤집히면 교대): 쇠모 4/4 · 쇠비 3/4(남은 열은 +31.9→+0.8로 크게 꺾임) · 불매 3/4(남은 열 −9.6→−23.4) · 곰 3/4. 첫 걷기 판(X5)은 같은 열 앞다리가 같아 보여 한 번 다시 받았다(k2). 독립 검수 에이전트는 정지 그림으론 교대를 못 가려 「불확실」이라 했다.
+- **독립 검수(sonnet) 짚은 것과 처리**
+  - 쇠모: 걷기·개성 줄 머리색이 내려찍기·맞음 줄보다 검다(머리띠도 어둡다) → **못 고침(보류 메모)**.
+  - 쇠비: 걷기 뒷발 둘레 검은 조각이 경미 → 그대로.
+  - 불매: 내려찍기 앞 칸 윗몸이 앞치마 없이 밝은 살색으로 보임(뒤로 젖힌 자세의 옆모습) → 그대로.
+  - 곰: **입 벌린 내려찍기 칸(a4 · b1 · b2)의 얼굴이 콧수염 난 남자처럼 읽힘** → Codex 부분 편집 1회(X33·X34) 받아 차이 덩어리만 합침(`tools/out/x/facemerge.py`) · 입 안 그늘만 남고 조금 나아졌으나 **완전히 여자 얼굴로 돌아오진 않음(보류 메모)**. 원본은 `out-gom-chop-a-v1.png` · `-b-v1.png`.
+- **자홍빛 화소**: 맞음·쓰러짐 낱칸의 자홍·보라 화소를 이웃 색으로 메움(`tools/out/x/depurple.py` · 장수 넷).
+- **결과 숫자**: 하네스 strip 판정 합격 · `npx tsc`(tools/out 밖) 오류 0 · `npm test` 통과 2199 · 실패 0.
+- **GIF**: `tools/out/lineup/gen-base-w-75-daegaya-soemoe-flow.gif` · `gen-soebi-flow.gif` · `gen-base-w-38-sangdang-bulmae-flow.gif` · `gen-gom-flow.gif` (칸 펼친 판은 같은 폴더 `…-flowframes.png`). 옛 띠는 `tools/out/strip/old-gen-*.png`.
+- **못 본 것**: 게임 화면에서 실제 재생 · 6배 확대 전수(자루 곧음은 5배 펼친 판 눈대중) · 얼굴 8~12배(쇠모 서기만 5배로 봄) · Claude API 검수(`claude-review.mjs`)는 돌리지 않고 독립 검수 에이전트로 대신함 · 곰 서기↔걷기 얼굴 같음 숫자 · 내려찍기 뒷발 자리를 화소로 잰 것(눈으로만) · 쇠모의 머리색 차이는 숫자로 재지 않음.
